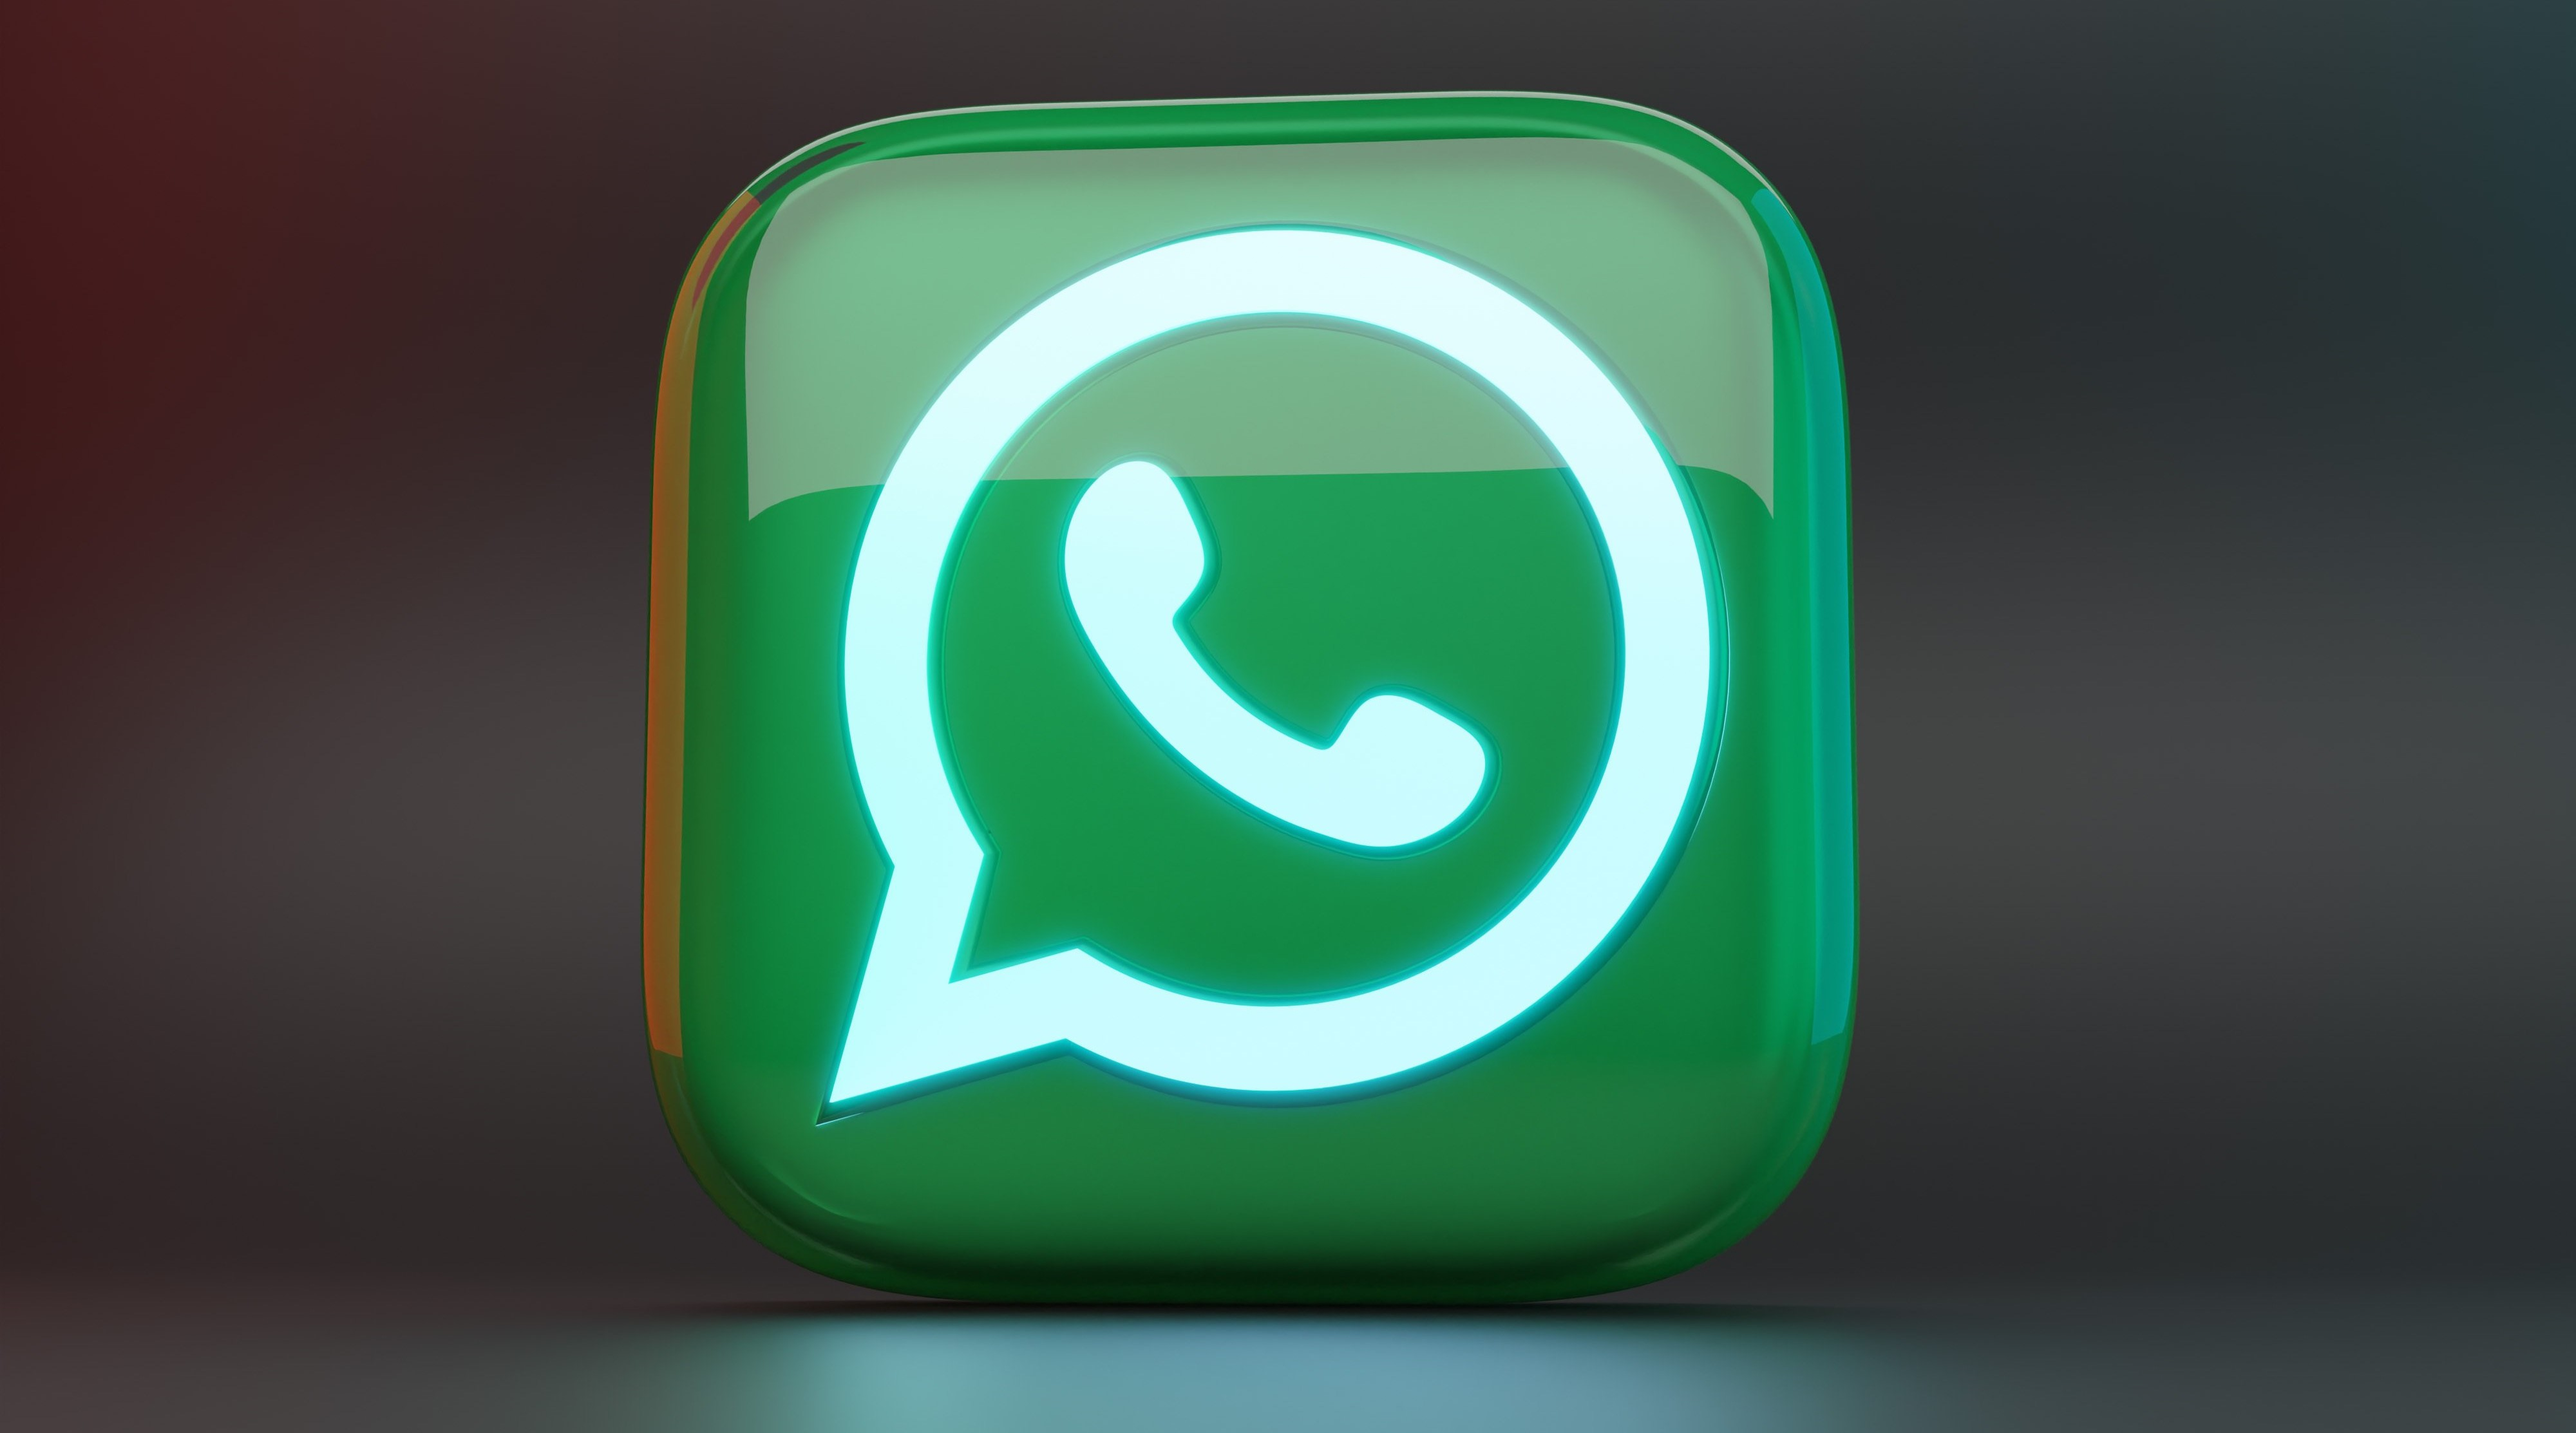
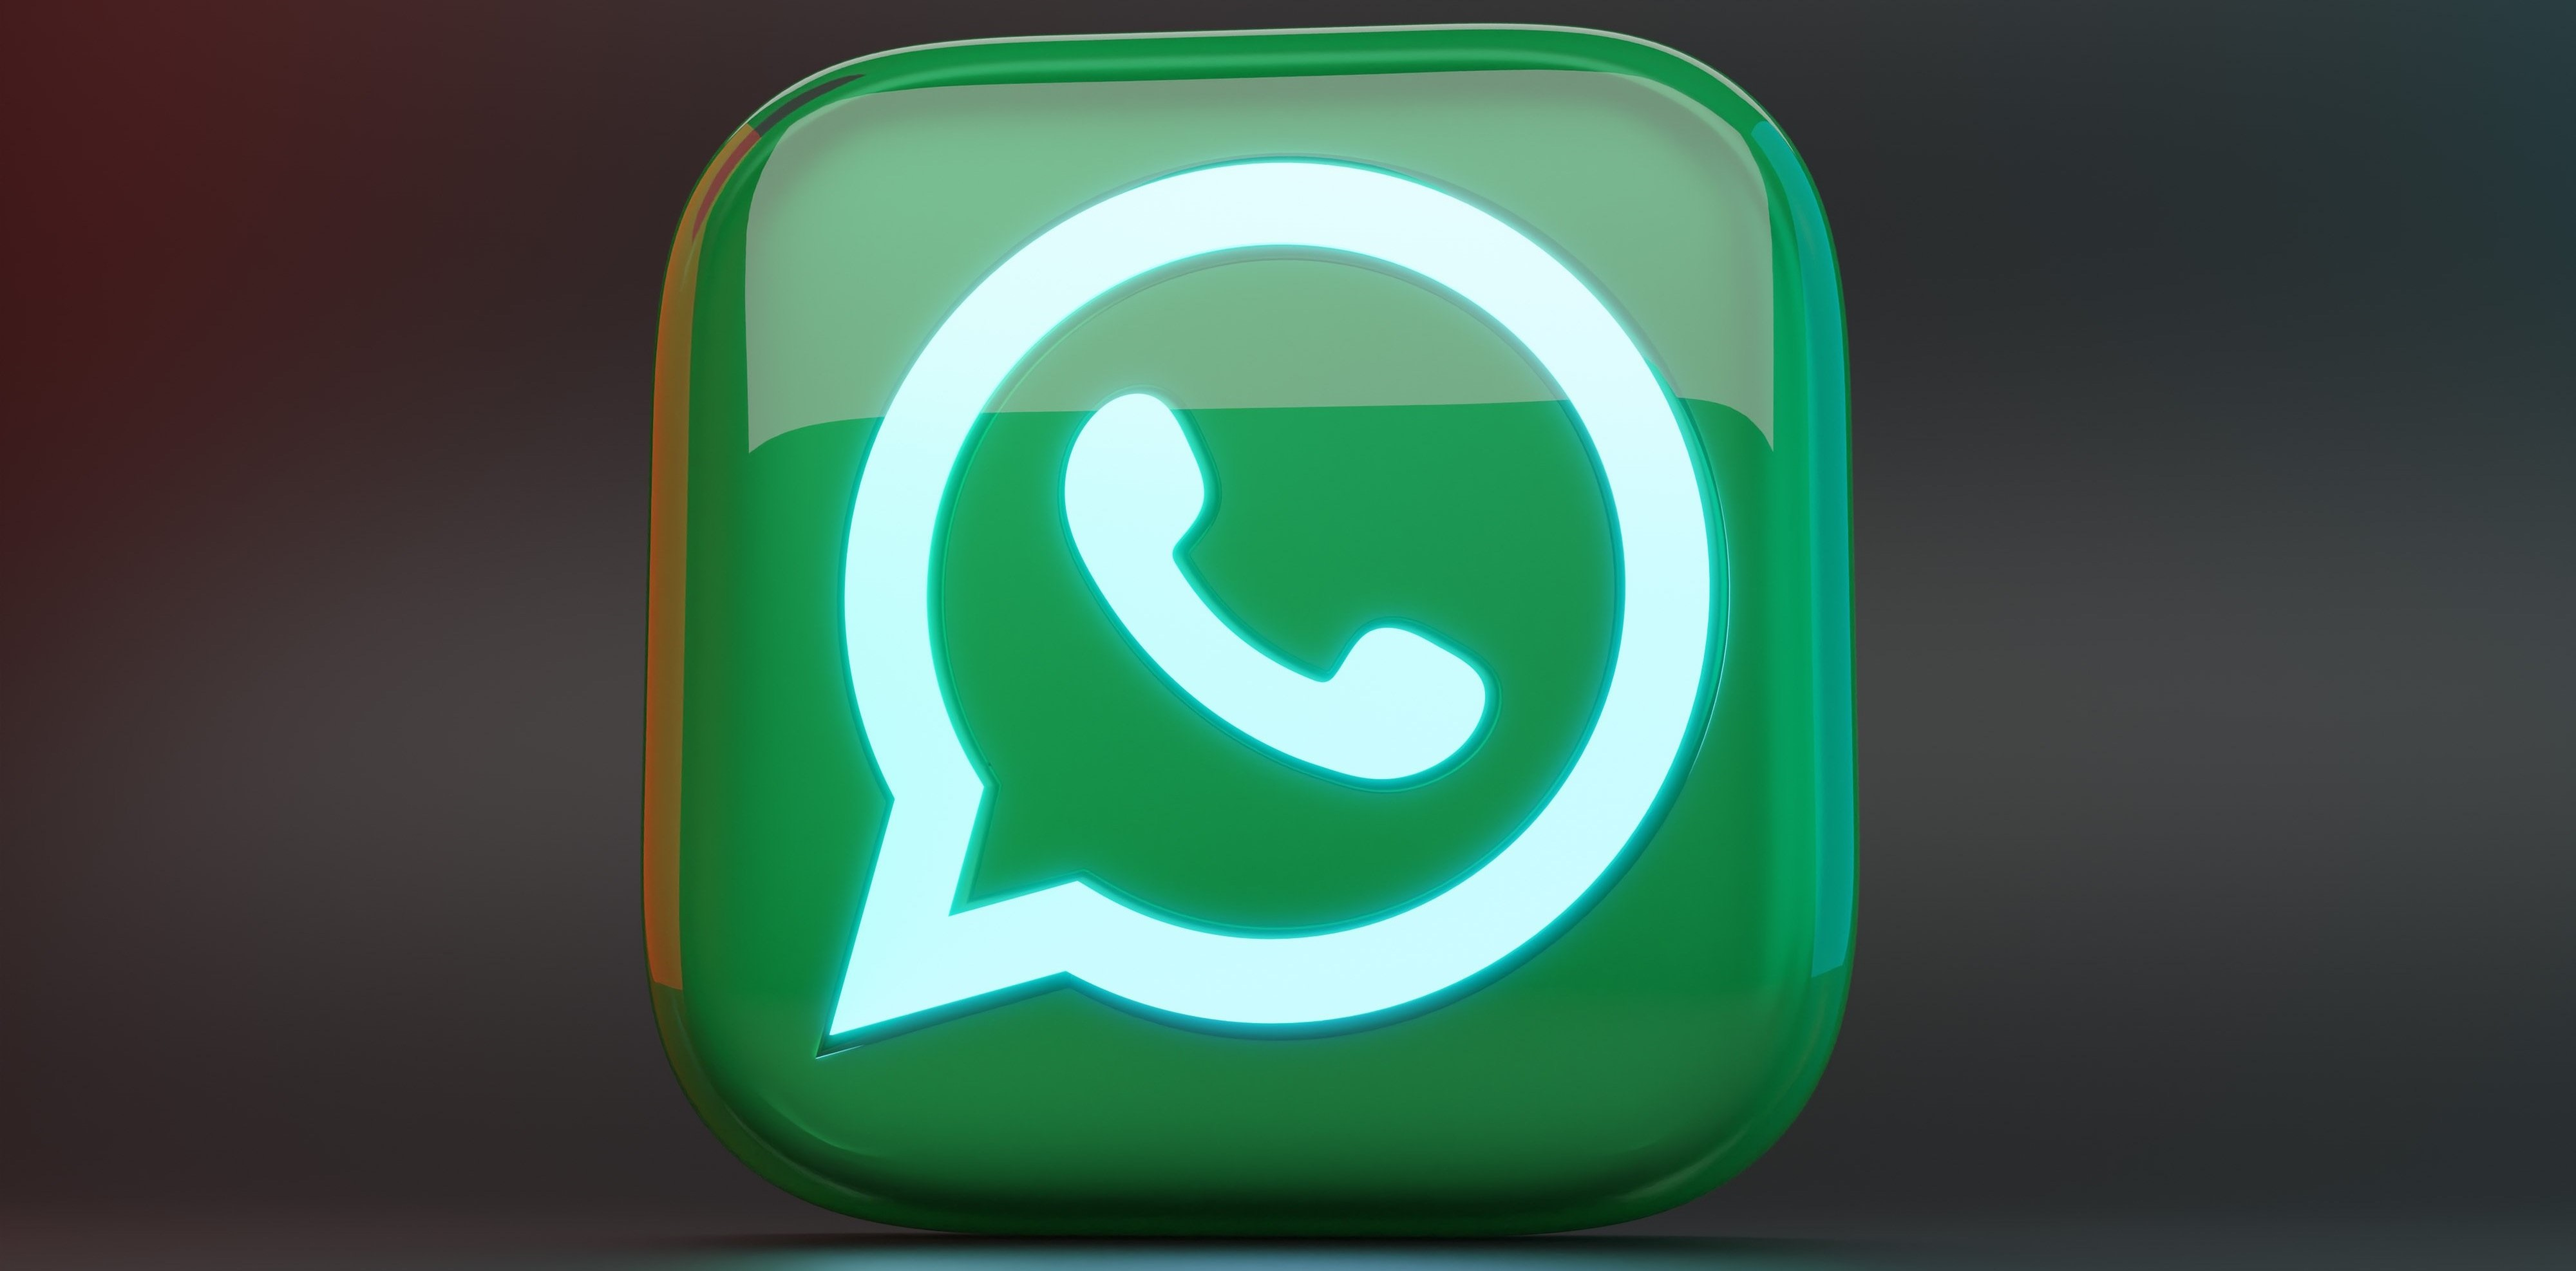
new

diff --git a/final/app.py b/final/app.py
@@ -19,9 +19,11 @@ col1, col2, col3 = st.columns([1, 2, 1])
 with col2:
     st.title("Whatsapp Chat analyzer")
     
-col1,col2,col3=st.columns([1,4,1])
-with col2:
-    st.image("x_whatsapp_pic.png",width=665)
+col1,col2,col3,col4=st.columns([1,1,1,1])
+with col1:
+    st.image("x_whatsapp_pic.png",width=600)
+with col3:
+    st.image("x_whatsapp-icon-6953522.jpg",width=600)
 
 st.markdown("""
 ### Unleash the Hidden Insights
